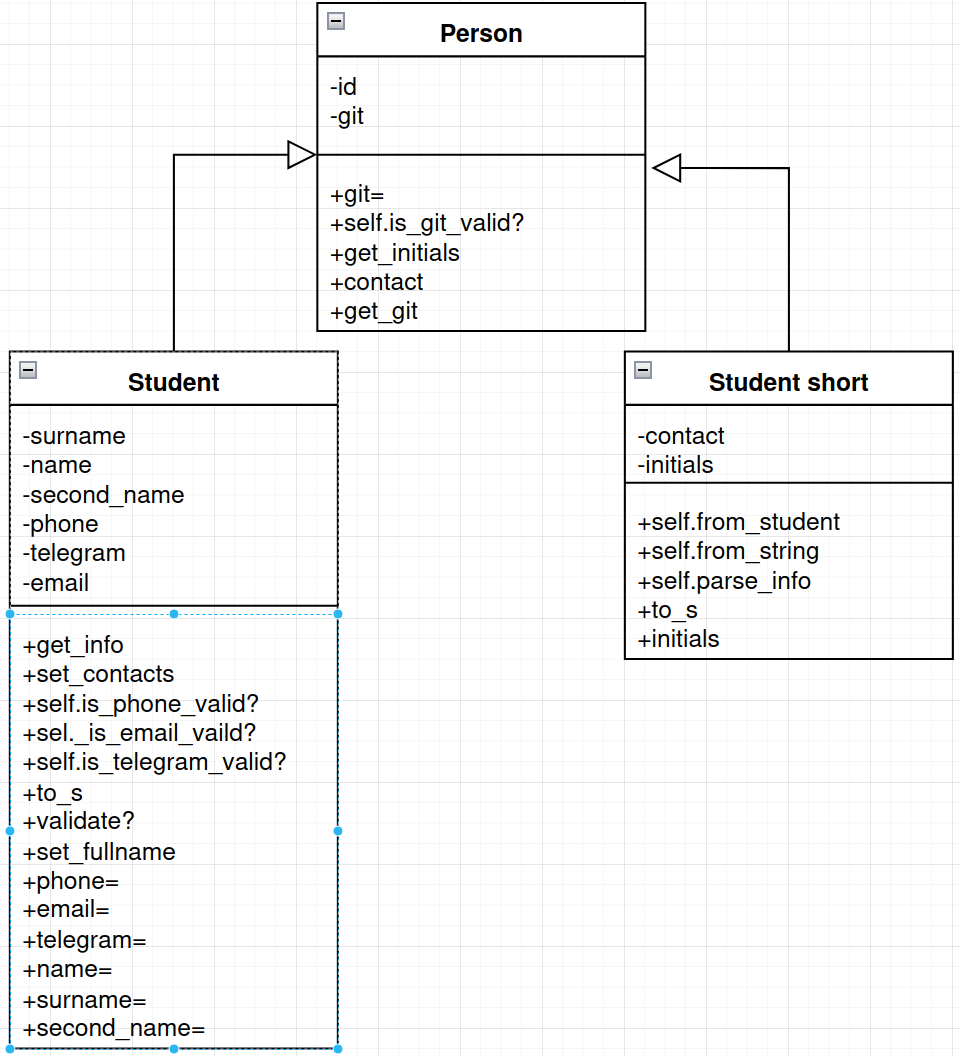
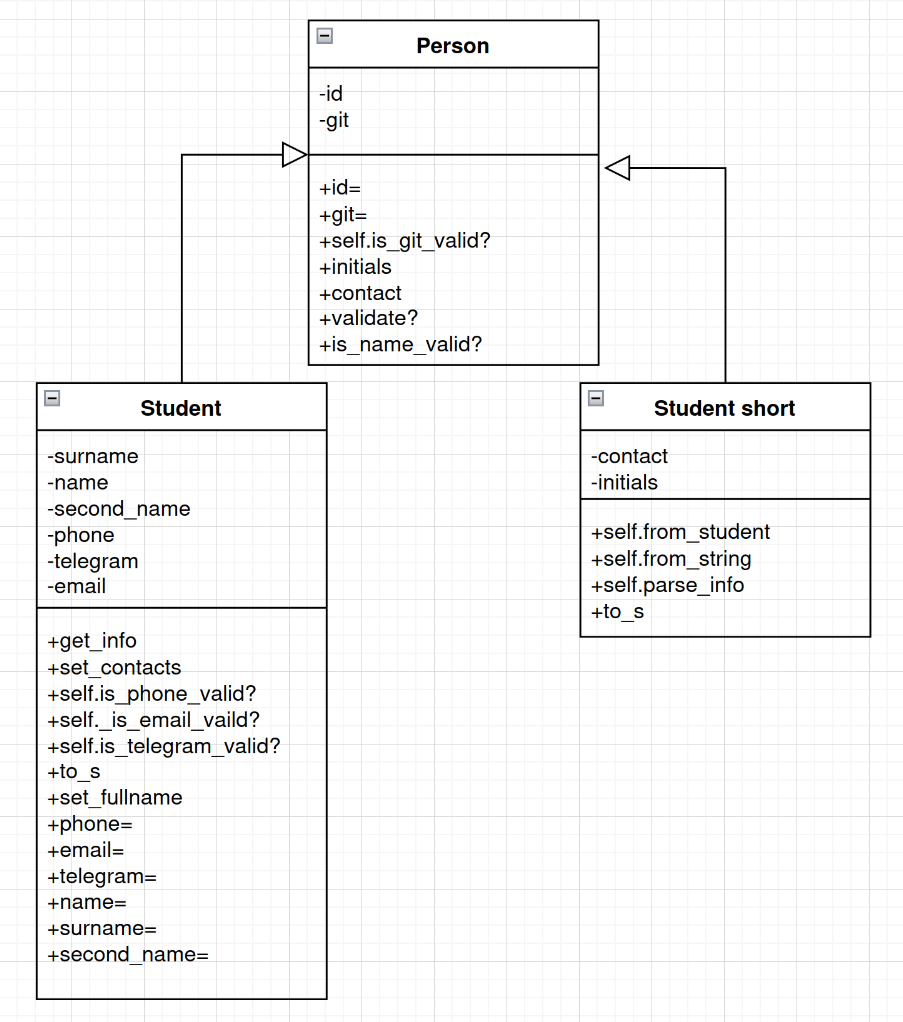
Lab 2, Task 2.6: Added new diagram

Changed region(s): [[0.0, 0.0, 1.0, 1.0]]

diff --git a/students/person_class.rb b/students/person_class.rb
@@ -1,8 +1,12 @@
 class Person
-  attr_accessor :id, :git
+  attr_reader :id, :git
   def initialize(id:, git:)
-    @id = id
+    self.id = id
     self.git = git
+  end
+
+  def id=(new_id)
+    @id = new_id
   end
 
   #метод-писатель для гита и его валидатор
@@ -32,7 +36,7 @@ class Person
 
   #метод для быстрой проверки наличия гита и контакта у экземпляра
   def validate?
-    !@git.nil? && (!@telegram.nil? || !@email.nil? || !@phone.nil?)
+    !@git.nil? && (!@telegram.nil? || !@email.nil? || !@phone.nil? || !@contact.nil?)
   end
 
   def self.is_name_valid?(name)

diff --git a/students/main.rb b/students/main.rb
@@ -1,7 +1,7 @@
 require_relative 'student_class'
 require_relative 'short_student_class'
 
-amal = Student.new('Blyagoz', 'Amal', 'Khazretovich', git: 'github.com/lamafout', email: 'lamafout@yandex.ru', telegram: '@lamafout')
+amal = Student.new('Blyagoz', 'Amal', 'Khazretovich', id: 123, git: 'github.com/lamafout', email: 'lamafout@yandex.ru', telegram: '@lamafout')
 sergey = Student.new('Lotarev', 'Sergey', 'Urievuch', phone: '88005553535')
 mark = Student.new('Anikin', 'Mark', 'Andreevich', email: 'mark.markovnik@gmail.com')
 puts amal
